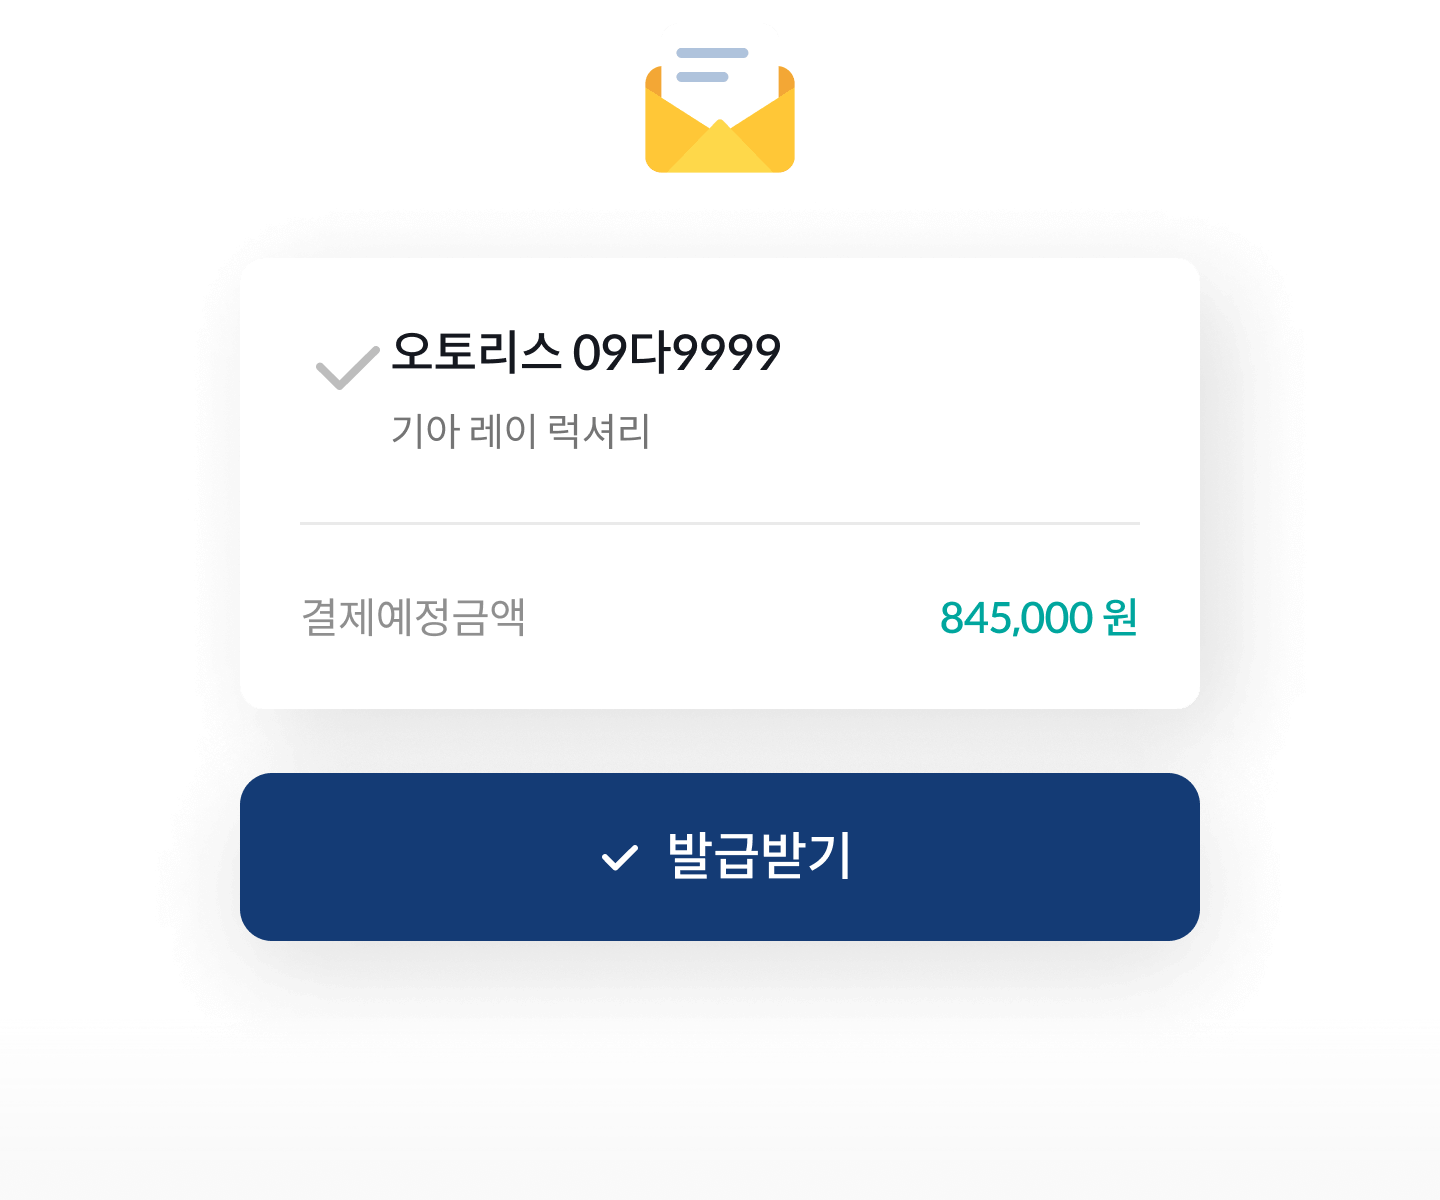
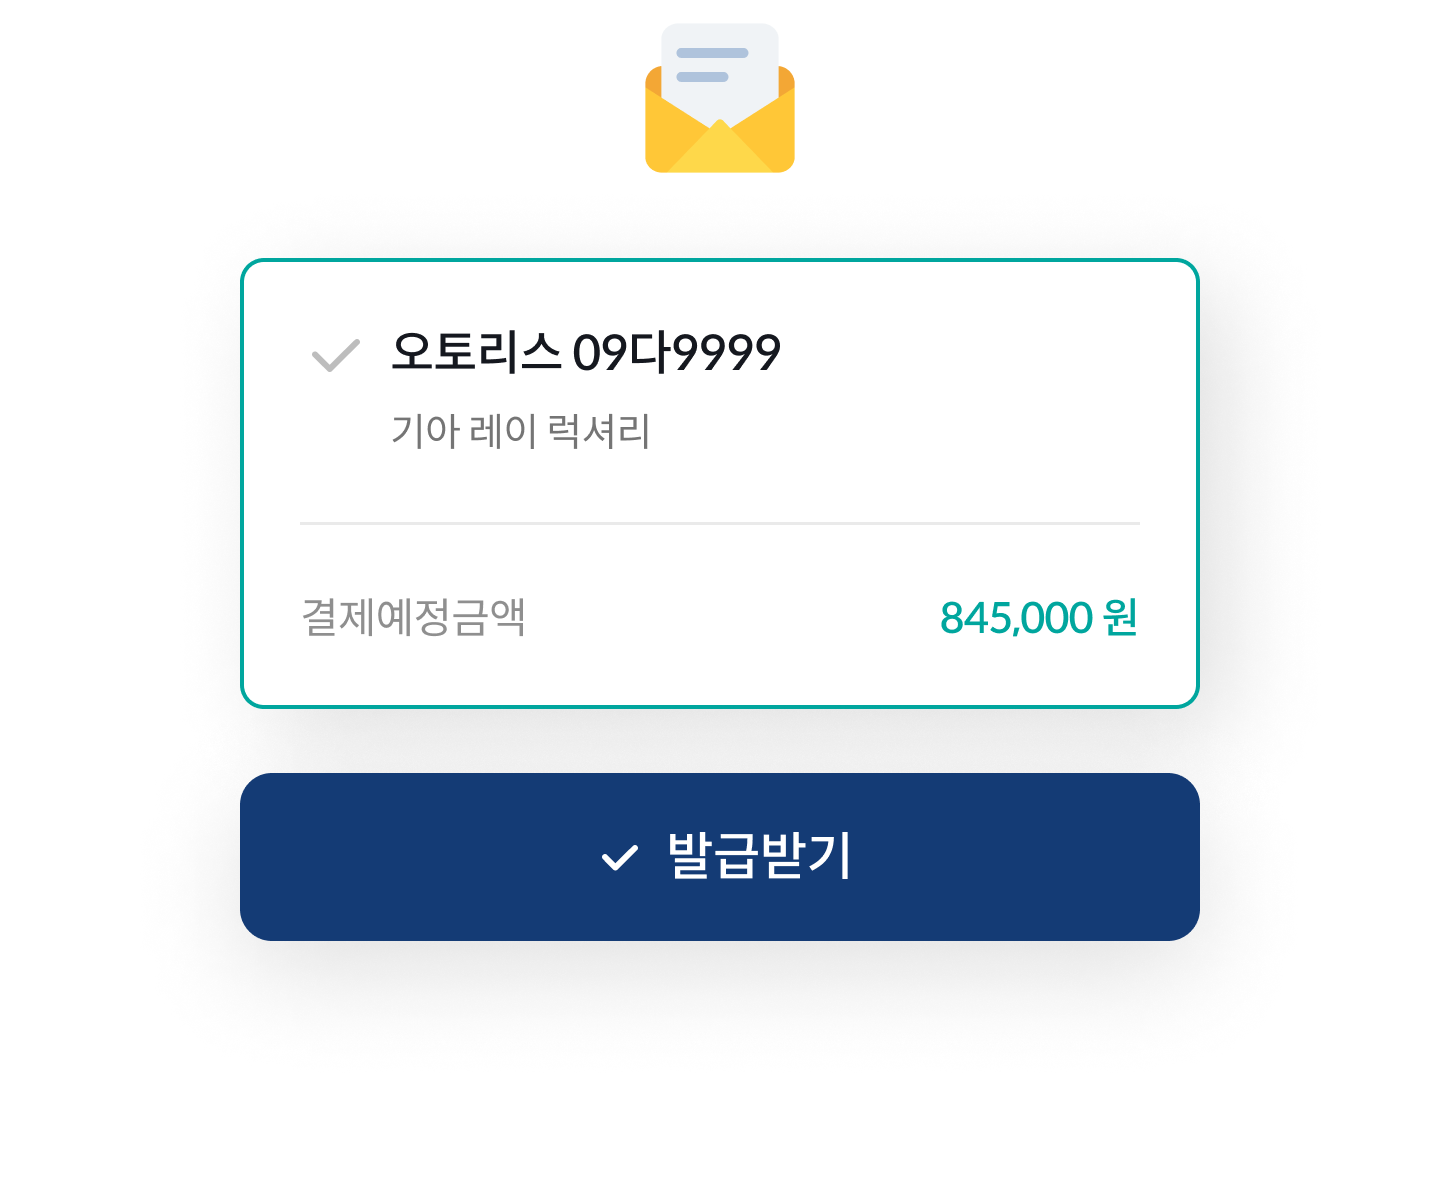
[DT-172] [Common_M00_p010] 배경 컬러 및 이미지 변경

diff --git a/src/views/onboarding/OnboardingHome.vue b/src/views/onboarding/OnboardingHome.vue
@@ -1,10 +1,8 @@
 <script>
 // Common_M00_p010
-import { ref, reactive, onMounted, onUnmounted } from 'vue';
+import { ref, reactive, onMounted } from 'vue';
 import { Pagination, A11y } from 'swiper';
 import { Swiper, SwiperSlide } from 'swiper/vue';
-
-import { useUiCommonStore } from '@/stores/ui/common';
 
 import BasicButton from '@/components/ui/button/BasicButton.vue';
 import ButtonList from '@/components/ui/button/ButtonList.vue';
@@ -19,12 +17,6 @@ export default {
     ButtonListItem,
   },
   setup() {
-    const store = {
-      ui: {
-        common: useUiCommonStore(),
-      },
-    };
-
     const state = reactive({
       paginationEl: null,
     });
@@ -32,12 +24,7 @@ export default {
     const pagination = ref(null);
 
     onMounted(() => {
-      store.ui.common.setRootClassName('page-onboarding');
       state.paginationEl = pagination.value;
-    });
-
-    onUnmounted(() => {
-      store.ui.common.setRootClassName();
     });
 
     return {

diff --git a/src/assets/scss/views/onboarding/OnboardingHome.scss b/src/assets/scss/views/onboarding/OnboardingHome.scss
@@ -1,7 +1,3 @@
-:global(.page-onboarding) {
-  background-color: $color-gray-05;
-}
-
 .slide {
   flex: 1;
 
@@ -9,11 +5,15 @@
     padding-bottom: 122px;
     text-align: center;
     height: 100vh;
-    min-height: 572px;
+    min-height: 605px;
     box-sizing: border-box;
     display: flex;
     flex-direction: column;
     align-items: stretch;
+
+    @include media-mobile-small {
+      min-height: 572px;
+    }
   }
 
   &__head {
@@ -38,7 +38,7 @@
     flex: none;
     position: relative;
     width: 100%;
-    max-width: 320px;
+    max-width: 360px;
     margin: auto;
 
     &::before {
@@ -59,7 +59,11 @@
 
   :global(.swiper) {
     height: 100vh;
-    min-height: 572px;
+    min-height: 605px;
+
+    @include media-mobile-small {
+      min-height: 572px;
+    }
   }
 }
 

diff --git a/src/views/uiGuide/GuideIndex.vue b/src/views/uiGuide/GuideIndex.vue
@@ -392,7 +392,12 @@ const datas = () => [
         path: '/onboarding/home',
         status: 'end',
         create: '2023.06.23',
-        log: [],
+        log: [
+          {
+            date: '2023.09.14',
+            text: '이미지 및 배경색 변경',
+          },
+        ],
       },
     ],
   },
